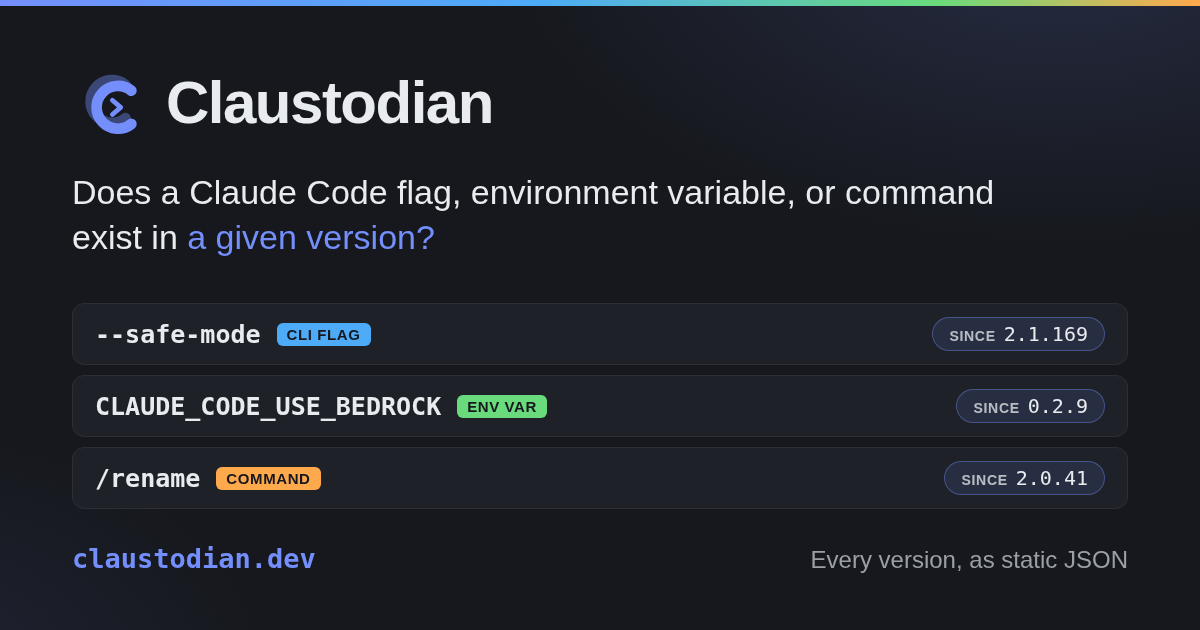
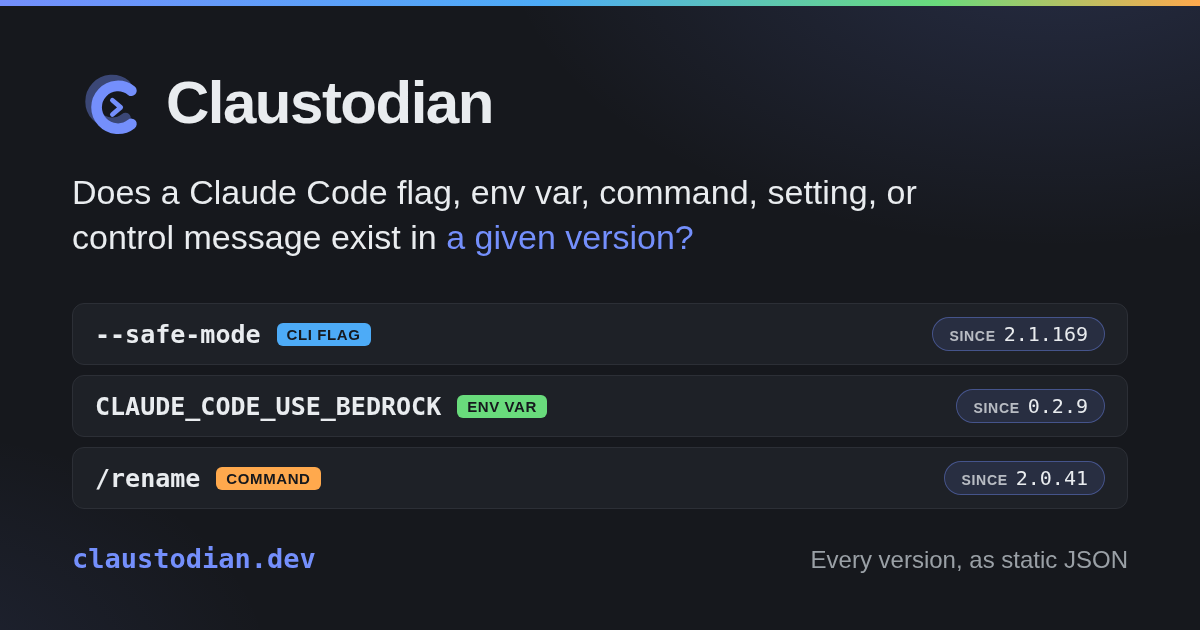
docs: describe control_message everywhere the type surface is listed (#231)
* docs: describe control_message everywhere the type surface is listed

control_message shipped as a symbol type but the "what this dataset covers"
enumeration was never updated in the places that describe the surface, so
agents and readers saw a four-type dataset. Add it (and, where the sentence
had dropped it, settings key / config_key) to:

- machine-facing: llms.txt, the site JSON-LD description + keywords, the
  site meta/OG/Twitter descriptions, and site/.well-known/mcp-server-card.
- prose pitches: README, AGENTS.md, the review-instructions project blurb,
  examples/README.md, the examples/claustodian.py docstring, and the OG card.
- docs/ARCHITECTURE.md: drop the now-false "No control_message records yet"
  bullet from "What is deliberately not here" — the records ship.

No data or schema change; control_message already carries its own record
contract. The worker's functional type-filter fix is PR 230.

Note: assets/og/og-image.png is rendered from card.html and should be
re-generated so the social image matches the updated text.

* chore(og): re-render og-image.png from the updated card

Regenerated from assets/og/card.html at 1200x630 via agent-browser (the
method the card's own comment documents), so the social image's tagline
matches the control-message text change in this PR. Sample rows unchanged.

* docs: control_message in the sites the first sweep missed

Local review caught three more enumeration sites the audit skipped:
[…]

Changed region(s): [[0.4317, 0.2714, 0.8325, 0.3317], [0.0617, 0.3619, 0.5858, 0.4222]]

diff --git a/site/index.html b/site/index.html
@@ -6,7 +6,7 @@
     <title>Claustodian — Claude Code surface, by version</title>
     <meta
       name="description"
-      content="Look up whether a Claude Code CLI flag, environment variable, or command exists in a given version."
+      content="Look up whether a Claude Code CLI flag, environment variable, slash command, settings key, or stream-json control message exists in a given version."
     />
     <link rel="icon" type="image/svg+xml" href="favicon.svg" />
     <link rel="canonical" href="https://claustodian.dev/" />
@@ -21,7 +21,7 @@
     <meta property="og:title" content="Claustodian — Claude Code surface, by version" />
     <meta
       property="og:description"
-      content="Look up whether a Claude Code CLI flag, environment variable, or command exists in a given version."
+      content="Look up whether a Claude Code CLI flag, environment variable, slash command, settings key, or stream-json control message exists in a given version."
     />
     <meta property="og:image" content="https://claustodian.dev/og-image.png" />
     <meta property="og:image:type" content="image/png" />
@@ -35,7 +35,7 @@
     <meta name="twitter:title" content="Claustodian — Claude Code surface, by version" />
     <meta
       name="twitter:description"
-      content="Look up whether a Claude Code CLI flag, environment variable, or command exists in a given version."
+      content="Look up whether a Claude Code CLI flag, environment variable, slash command, settings key, or stream-json control message exists in a given version."
     />
     <meta name="twitter:image" content="https://claustodian.dev/og-image.png" />
     <meta
@@ -53,7 +53,7 @@
         "@type": "Dataset",
         "name": "Claustodian",
         "alternateName": "Claude Code surface, by version",
-        "description": "A static, versioned record of every Claude Code CLI flag, environment variable, command and settings key, each tagged with the version it was first observed in and, where known, the version it was removed in. Derived only from officially published Anthropic artifacts: the changelog, the documentation pages, and release binaries.",
+        "description": "A static, versioned record of every Claude Code CLI flag, environment variable, command, settings key and stream-json control message, each tagged with the version it was first observed in and, where known, the version it was removed in. Derived only from officially published Anthropic artifacts: the changelog, the documentation pages, and release binaries.",
         "url": "https://claustodian.dev/",
         "sameAs": "https://github.com/schubydoo/claustodian",
         "license": "https://creativecommons.org/licenses/by/4.0/",
@@ -69,6 +69,7 @@
           "environment variables",
           "slash commands",
           "settings.json",
+          "stream-json control protocol",
           "version history",
           "feature detection"
         ],

diff --git a/examples/claustodian.ts b/examples/claustodian.ts
@@ -5,7 +5,8 @@
  * Minimal zero-dependency client for the Claustodian dataset.
  *
  * Claustodian answers: "does a Claude Code symbol (CLI flag / env var / slash
- * command) exist in version Y, and what did it do at that version?" The data is
+ * command / settings key / control message) exist in version Y, and what did it
+ * do at that version?" The data is
  * static JSON on GitHub Pages — this client just fetches it and applies the
  * three rules that matter (availability, removal=vanish, describe-at-version).
  *
@@ -20,10 +21,9 @@ export const DEFAULT_BASE = 'https://claustodian.dev/data';
 // config_key are populated. internal_config_flag is reserved by the schema and
 // deliberately unused — internal-ness is carried by `category` (`settings-internal`),
 // because typing off a description would churn a record's identity every time
-// Anthropic edits the text. control_message is assembled by the pipeline but is not
-// in the published dataset yet; widening this union ahead of the data keeps a
-// consumer that adopts it from failing to compile the first time a control_message
-// record appears in a snapshot.
+// Anthropic edits the text. control_message records are published; they also carry
+// `family` and `direction` fields (see the schema) that this minimal client does
+// not model.
 export type SymbolType =
   'cli_flag' | 'command' | 'env_var' | 'config_key' | 'internal_config_flag' | 'control_message';
 export type Status = 'active' | 'deprecated' | 'removed' | 'needs_review';

diff --git a/scripts/validate-schema.test.ts b/scripts/validate-schema.test.ts
@@ -109,11 +109,13 @@ describe('symbol schema', () => {
     expect(validate(validSymbol({ extra_field: 'not allowed' }))).toBe(false);
   });
 
-  // The control_message contract. Nothing else in CI can observe these: Codecov and
-  // the statements threshold measure scripts/ and worker/, and a JSON Schema branch
-  // is not a statement in either; `npm run validate` only sees committed data/, and
-  // no control_message records ship yet. Delete the `else` branch or misspell the
-  // enum member and every other test still passes.
+  // The control_message contract's NEGATIVE half. `npm run validate` now sees the
+  // committed control_message records, so it exercises the valid (family/direction
+  // present) path — but committed data is all valid, so only this test checks that
+  // the schema REJECTS a control_message missing them, or another type carrying
+  // them. Codecov and the statements threshold measure scripts/ and worker/, and a
+  // JSON Schema branch is not a statement in either. Delete the `else` branch or
+  // misspell the enum member and every other test still passes.
   const controlMessage = (overrides: Record<string, unknown> = {}): Record<string, unknown> => ({
     ...validSymbol({
       symbol: 'remote_control',

diff --git a/scripts/removals.test.ts b/scripts/removals.test.ts
@@ -24,9 +24,14 @@ describe('CONFIRMED_REMOVALS', () => {
     const keys = new Set<string>();
     for (const r of CONFIRMED_REMOVALS) {
       expect(r.removed_in).toMatch(/^\d+\.\d+\.\d+$/);
-      expect(['cli_flag', 'env_var', 'command', 'config_key', 'internal_config_flag']).toContain(
-        r.type
-      );
+      expect([
+        'cli_flag',
+        'env_var',
+        'command',
+        'config_key',
+        'internal_config_flag',
+        'control_message',
+      ]).toContain(r.type);
       const key = `${r.type}:${r.symbol}`;
       expect(keys.has(key)).toBe(false);
       keys.add(key);
@@ -75,9 +80,14 @@ describe('CONFIRMED_DEPRECATIONS', () => {
     const keys = new Set<string>();
     for (const d of CONFIRMED_DEPRECATIONS) {
       expect(d.deprecated_in).toMatch(/^\d+\.\d+\.\d+$/);
-      expect(['cli_flag', 'env_var', 'command', 'config_key', 'internal_config_flag']).toContain(
-        d.type
-      );
+      expect([
+        'cli_flag',
+        'env_var',
+        'command',
+        'config_key',
+        'internal_config_flag',
+        'control_message',
+      ]).toContain(d.type);
       const key = `${d.type}:${d.symbol}`;
       expect(keys.has(key)).toBe(false);
       keys.add(key);

diff --git a/assets/og/card.html b/assets/og/card.html
@@ -215,7 +215,7 @@
       </div>
 
       <p class="tagline">
-        Does a Claude Code flag, environment variable, or command exist in
+        Does a Claude Code flag, env var, command, setting, or control message exist in
         <em>a given version?</em>
       </p>
 

diff --git a/examples/claustodian.py b/examples/claustodian.py
@@ -4,7 +4,8 @@
 """Minimal stdlib-only client for the Claustodian dataset.
 
 Claustodian answers: "does a Claude Code symbol (CLI flag / env var / slash
-command) exist in version Y, and what did it do at that version?" The data is
+command / settings key / control message) exist in version Y, and what did it
+do at that version?" The data is
 static JSON on GitHub Pages -- this client fetches it and applies the three rules
 that matter (availability, removal=vanish, describe-at-version).
 

diff --git a/examples/README.md b/examples/README.md
@@ -11,8 +11,9 @@ specific user's Claude Code version.
 
 Claustodian answers one question:
 
-> Does a Claude Code **symbol** — a CLI flag, environment variable, slash command, or
-> settings key — exist in a specific **version**, and what did it do at that version?
+> Does a Claude Code **symbol** — a CLI flag, environment variable, slash command,
+> settings key, or stream-json control message — exist in a specific **version**, and
+> what did it do at that version?
 
 The data is static JSON on GitHub Pages (also YAML/TOML). There's nothing to install:
 fetch a URL and read it. Three tiny reference clients live next to this file:
@@ -65,10 +66,10 @@ A snapshot is `{ claudeCodeVersion, schemaVersion, symbols: [...] }`. Each symbo
 ```json
 {
   "symbol": "--output-format",
-  "type": "cli_flag", // schema enum: cli_flag | command | env_var | config_key | internal_config_flag | control_message (the first four are populated)
+  "type": "cli_flag", // schema enum: cli_flag | command | env_var | config_key | internal_config_flag | control_message (all but internal_config_flag are populated)
   // control_message records ALSO carry "family" and "direction", which are
-  // required on that type and forbidden on every other one. The dataset carries no
-  // such record yet; see schema/symbol.schema.json for the conditional.
+  // required on that type and forbidden on every other one; see
+  // schema/symbol.schema.json for the conditional.
   "first_seen": "0.2.66", // earliest version OBSERVED (semver string)
   "removed_in": null, // version it vanished, or null if still present
   // "deprecated_in": "2.1.73",  OPTIONAL, and rare — only 2 records carry it

diff --git a/docs/ARCHITECTURE.md b/docs/ARCHITECTURE.md
@@ -140,15 +140,6 @@ not rebuild on a custom-domain change, which has already caused one outage.
 - **No API.** Static files only: cacheable, vendorable, and readable offline.
 - **No `internal_config_flag` records.** The type is in the schema enum and unused;
   internal-ness is a `category`, per the identity invariant above.
-- **No `control_message` records yet.** The extractor runs in the extraction loop,
-  its output is cached per version, and `controlRecordsFor` assembles the records —
-  but `data/` carries none, because assembly reads `data/control-observations.json`
-  and that file is not committed. Writing it is opt-in: `backfill-binary` creates it
-  only when passed `--control`, or when it is already there. The committed cache is
-  fully scanned, so without that gate the release bot would produce it on its next
-  run and publish the whole control surface through an auto-mergeable data PR.
-  Publishing is therefore a deliberate act, in its own PR. The site cannot filter
-  them yet either.
 - **No LLM-authored content in the dataset.** Descriptions come from the docs, the
   changelog, or the binary's own text. A generated summary would be an unverified
   artifact in a dataset whose whole value is that claims are checkable.

diff --git a/README.md b/README.md
@@ -14,7 +14,7 @@
 [![Code: Apache-2.0](https://img.shields.io/badge/code-Apache--2.0-blue.svg)](LICENSE)
 [![Data: CC BY 4.0](https://img.shields.io/badge/data-CC--BY--4.0-blue.svg)](LICENSE-DATA)
 
-A static, versioned, machine-parseable record of every Claude Code CLI flag, environment variable, command, and config key — each tagged with the version it **first appeared** in (and, when known, when it was removed). Answer _"does feature X exist in Claude Code version Y?"_ by fetching a file, in any language, with no scraping.
+A static, versioned, machine-parseable record of every Claude Code CLI flag, environment variable, command, config key, and stream-json control message — each tagged with the version it **first appeared** in (and, when known, when it was removed). Answer _"does feature X exist in Claude Code version Y?"_ by fetching a file, in any language, with no scraping.
 
 ## Why
 

diff --git a/.github/claude-review-instructions.md b/.github/claude-review-instructions.md
@@ -19,8 +19,8 @@ context belongs in `AGENTS.md` / `CLAUDE.md`, which the reviewer already reads.
 ## What this project is
 
 Claustodian is a static, versioned dataset of the Claude Code surface — every CLI flag,
-environment variable, command and settings key, tagged with the version it was first
-observed in. Three lanes (changelog, docs, release binaries) produce one JSON snapshot
+environment variable, command, settings key and stream-json control message, tagged with
+the version it was first observed in. Three lanes (changelog, docs, release binaries) produce one JSON snapshot
 per release.
 
 **The whole value is that every claim is checkable against something Anthropic

diff --git a/AGENTS.md b/AGENTS.md
@@ -12,7 +12,8 @@ equivalent and repeats the parts an agent needs in-context.
 ## The project
 
 A static, versioned dataset of the Claude Code surface — every CLI flag, environment
-variable, command and settings key, tagged with the version it was first observed in.
+variable, command, settings key and stream-json control message, tagged with the
+version it was first observed in.
 Three lanes (changelog, docs, release binaries) produce one JSON snapshot per release,
 published to <https://claustodian.dev>.
 
